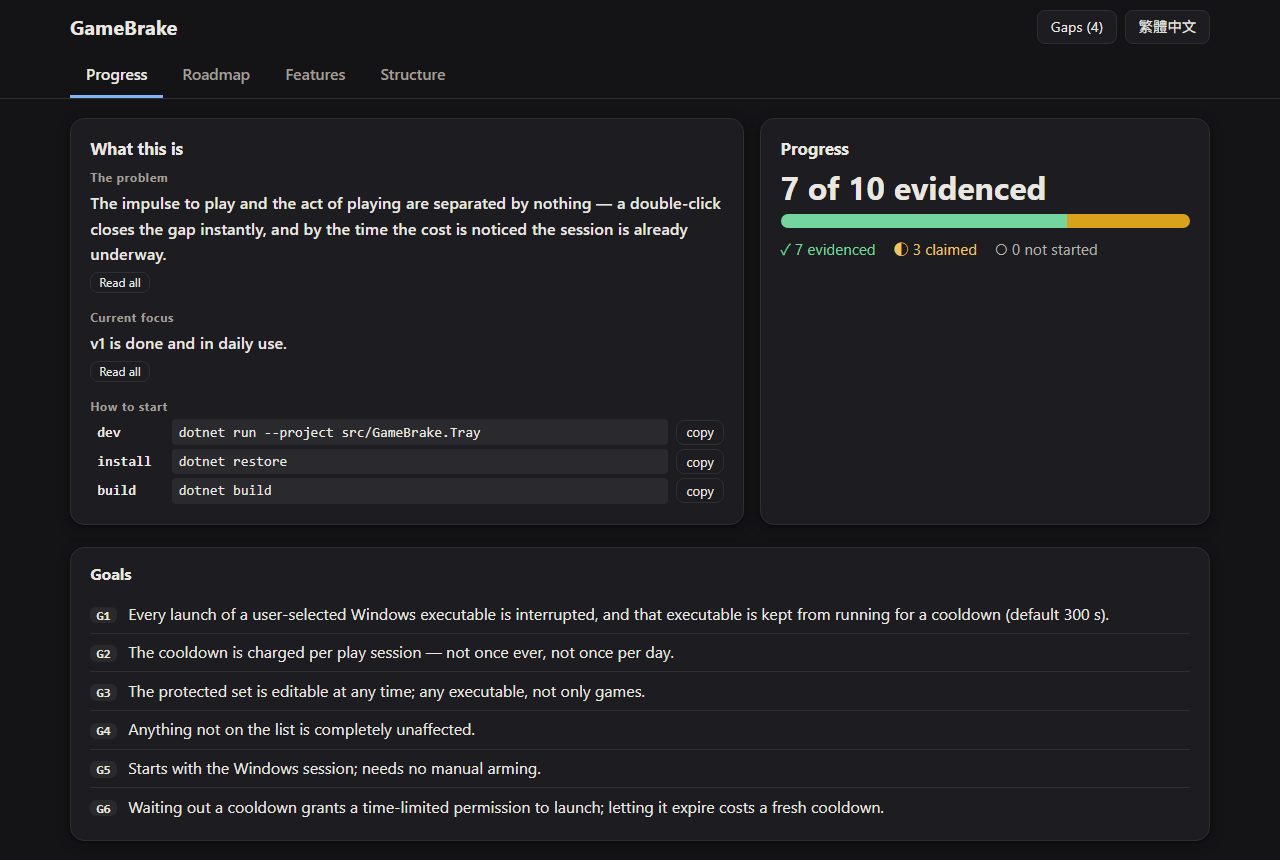
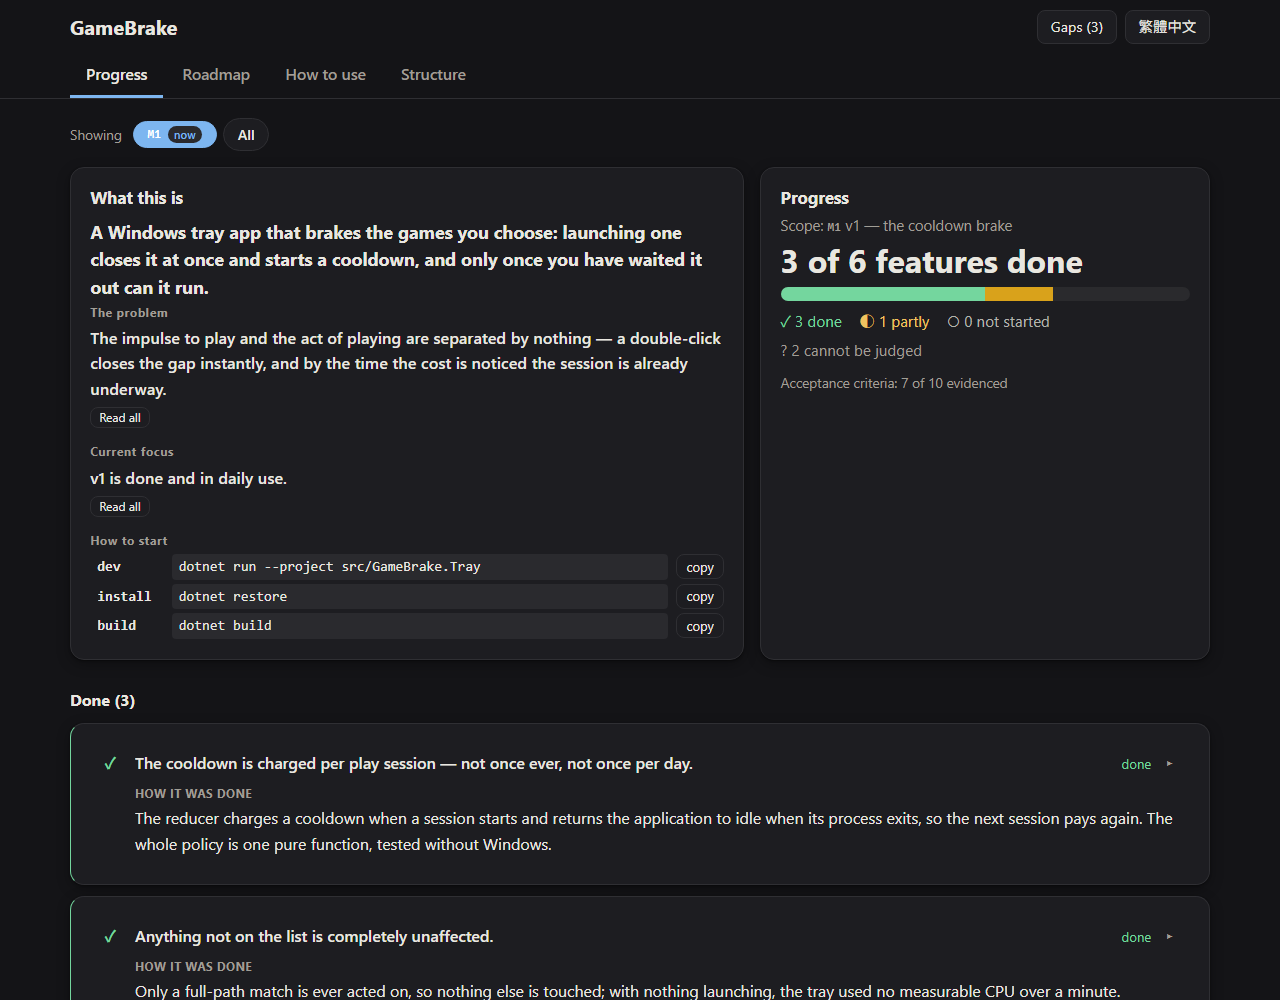
Retake the progress page screenshot, and record 0.8.0 rolled out

diff --git a/STATE.md b/STATE.md
@@ -67,7 +67,18 @@ adopting project, the other two in none.
   AC6/9 to G4, AC3/4 to G6, leaving G3 and G5 without criteria, plus M1 and
   three components; it shows 3 of 6 features done, 1 partly, 2 unjudged.
   Observed in headless Edge, English and zh views, a row opened: no errors,
-  no untranslated span. Waiting on the user's verdict on the sample.
+  no untranslated span. The user accepted the sample "for now" on 2026-10-25
+  and asked for it to be finished and rolled out: committed as kit 0.8.0
+  (spec-gate.md shows How and Parts in the shape and states the exception;
+  memory-update.md, the template SPEC.md header and METHOD.md semantics carry
+  it; the AGENTS.md progress paragraph describes the new page; SparkForge's
+  README line and screenshot follow). Every project is on 0.8.0 with the
+  paragraph and the wording applied. GameBrake's SPEC.md now holds the
+  sample's draft (goal links, M1, How and Parts, three components), taken as
+  approved by that "for now", and its translations are complete. A
+  translation committed apart from the work it translates leaves its own
+  commit subject untranslated, one step behind forever; folding it into the
+  work commit avoids that.
   On 2026-10-21 the user said it still
   falls short of what they have in mind and chose to finish it before any of
   the survey findings in the next item. Earlier, what fell short was recorded
@@ -342,7 +353,8 @@ adopting project, the other two in none.
   Committed in each git project and pushed at the user's request.
   GameBrake's two Upstream entries answered by 0.6.1 were deleted by hand,
   the return path survey item 3 asks for; its third stays. Its spec-gate
-  draft of 2026-10-04 was never saved and has to be drafted again.
+  draft of 2026-10-04 was never saved; it was drafted again for the 0.8.0
+  sample and is now in its SPEC.md.
   collect-upstream.sh called every project changed, because a project checks
   .ps1 out with CRLF and template/kit holds LF; it now compares ignoring
   carriage returns, and a changed file and an extra file still read as
